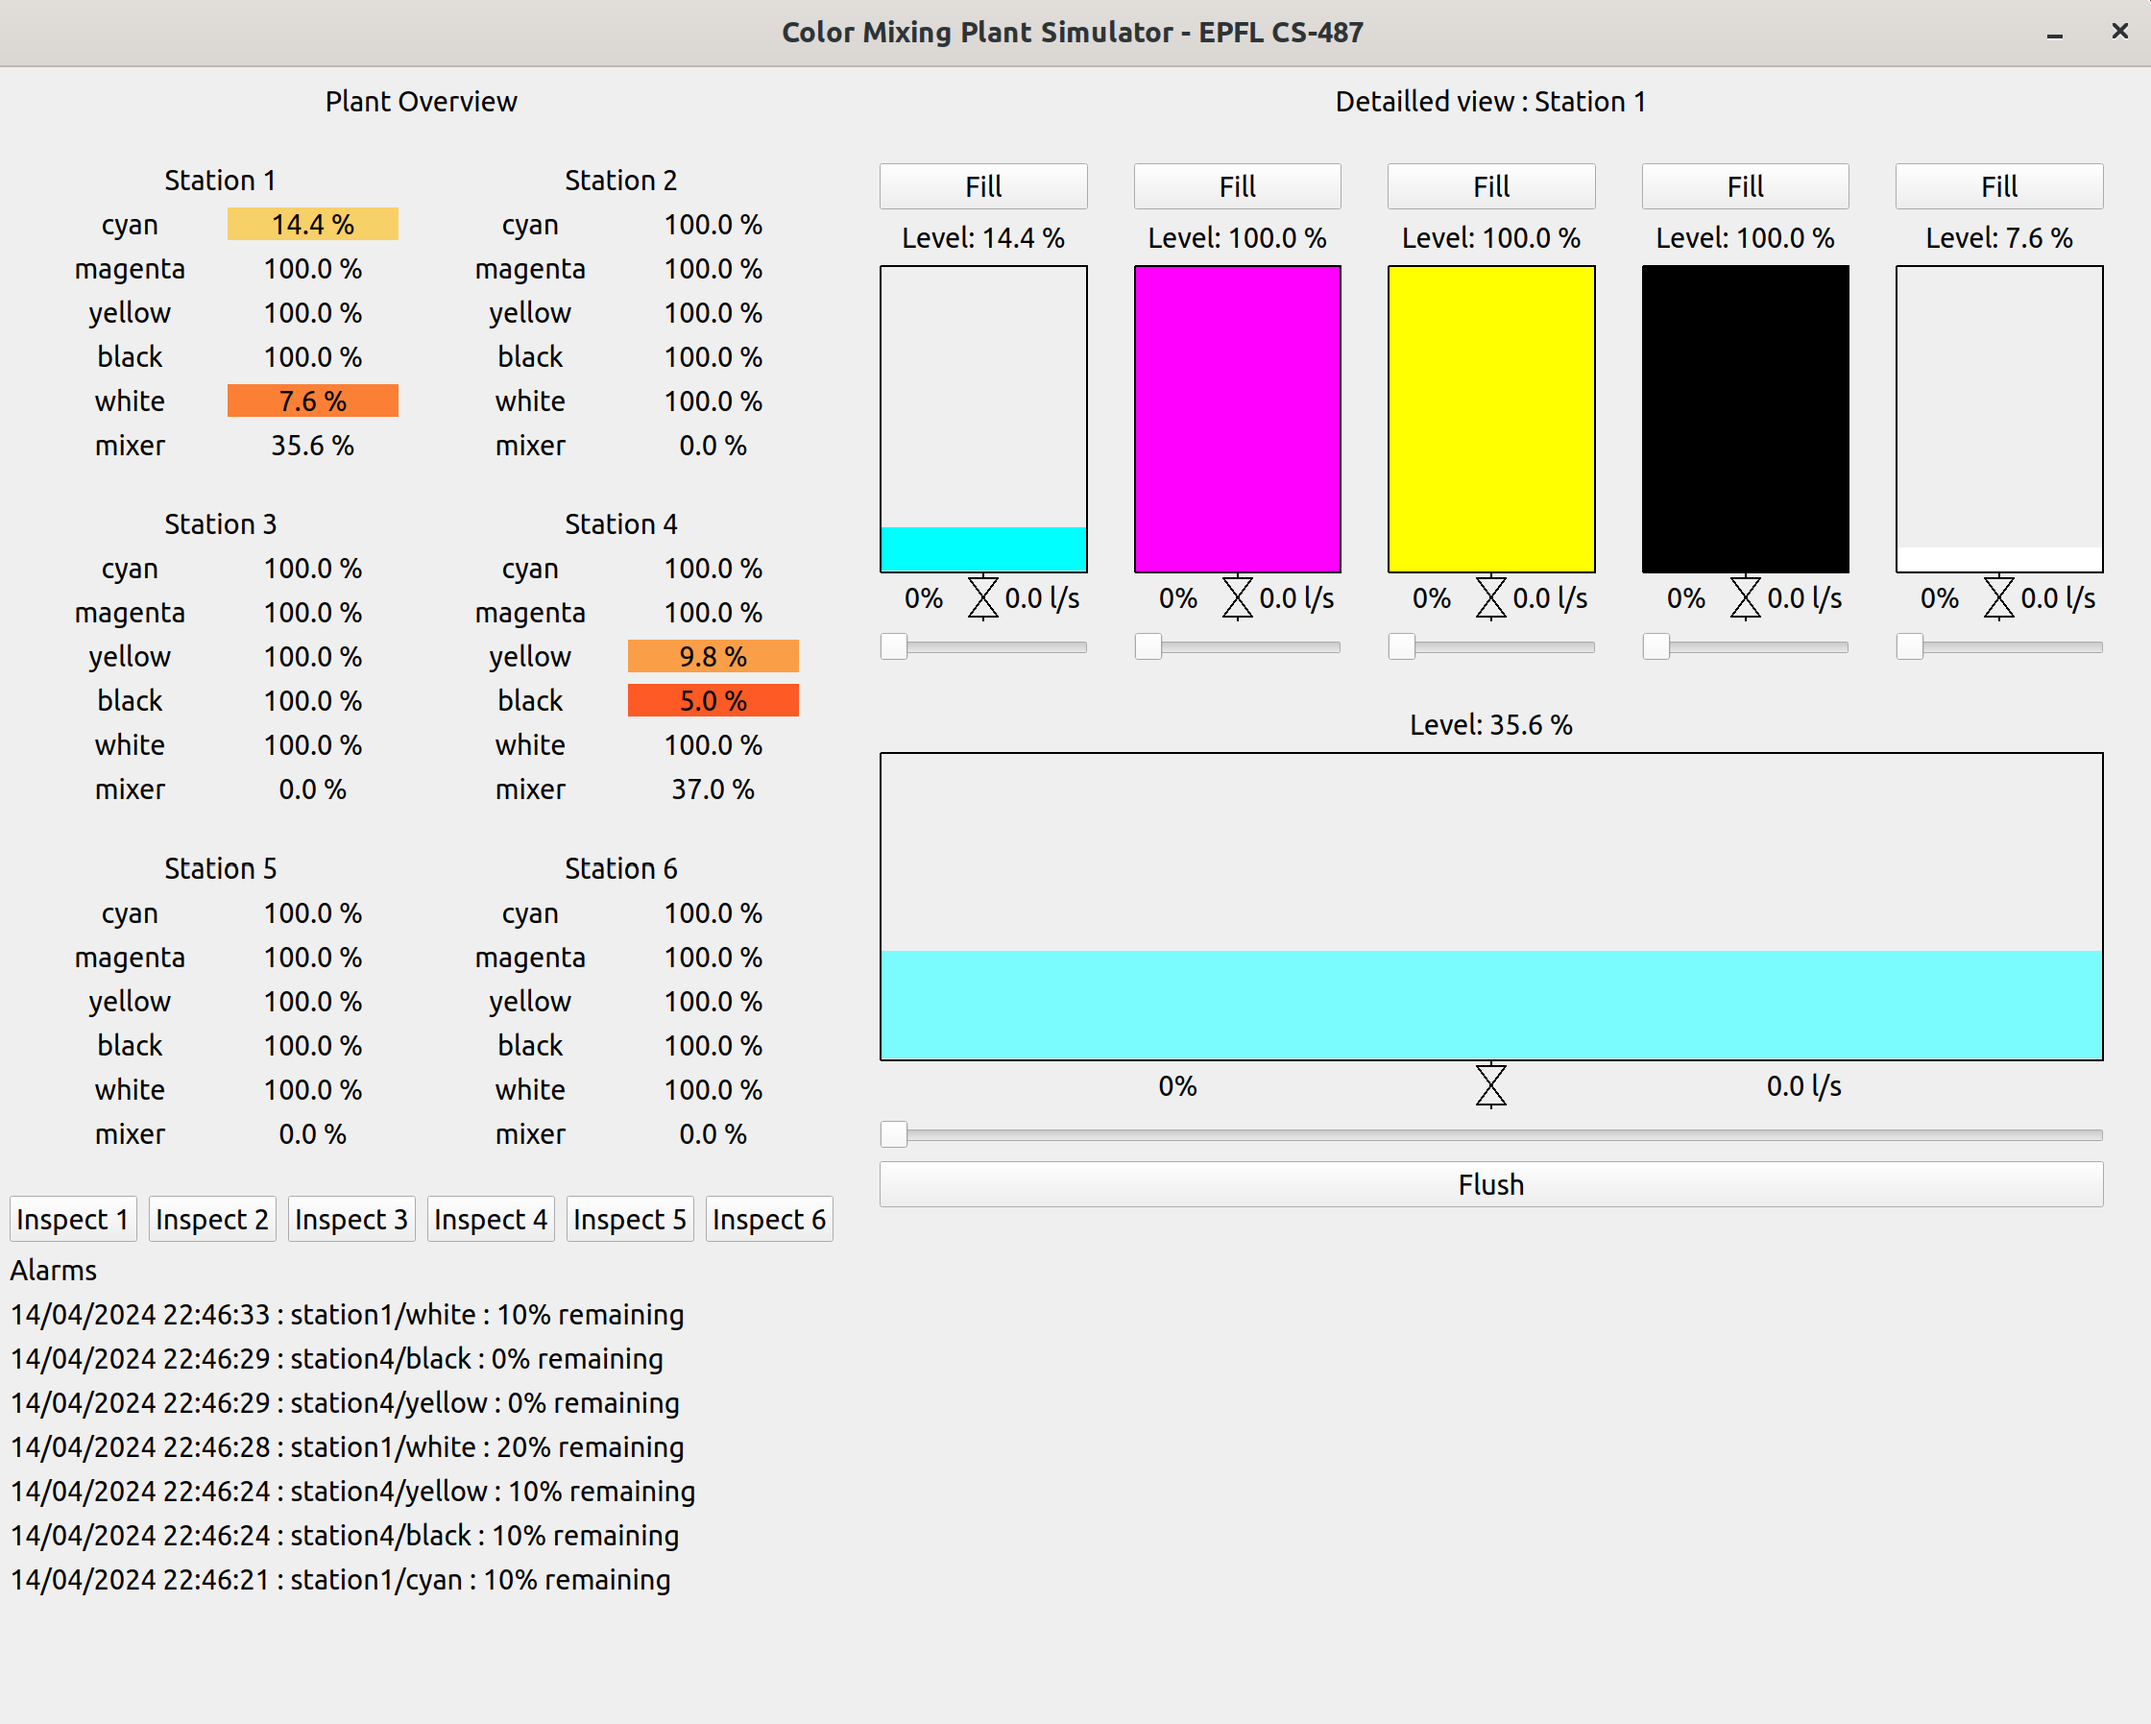
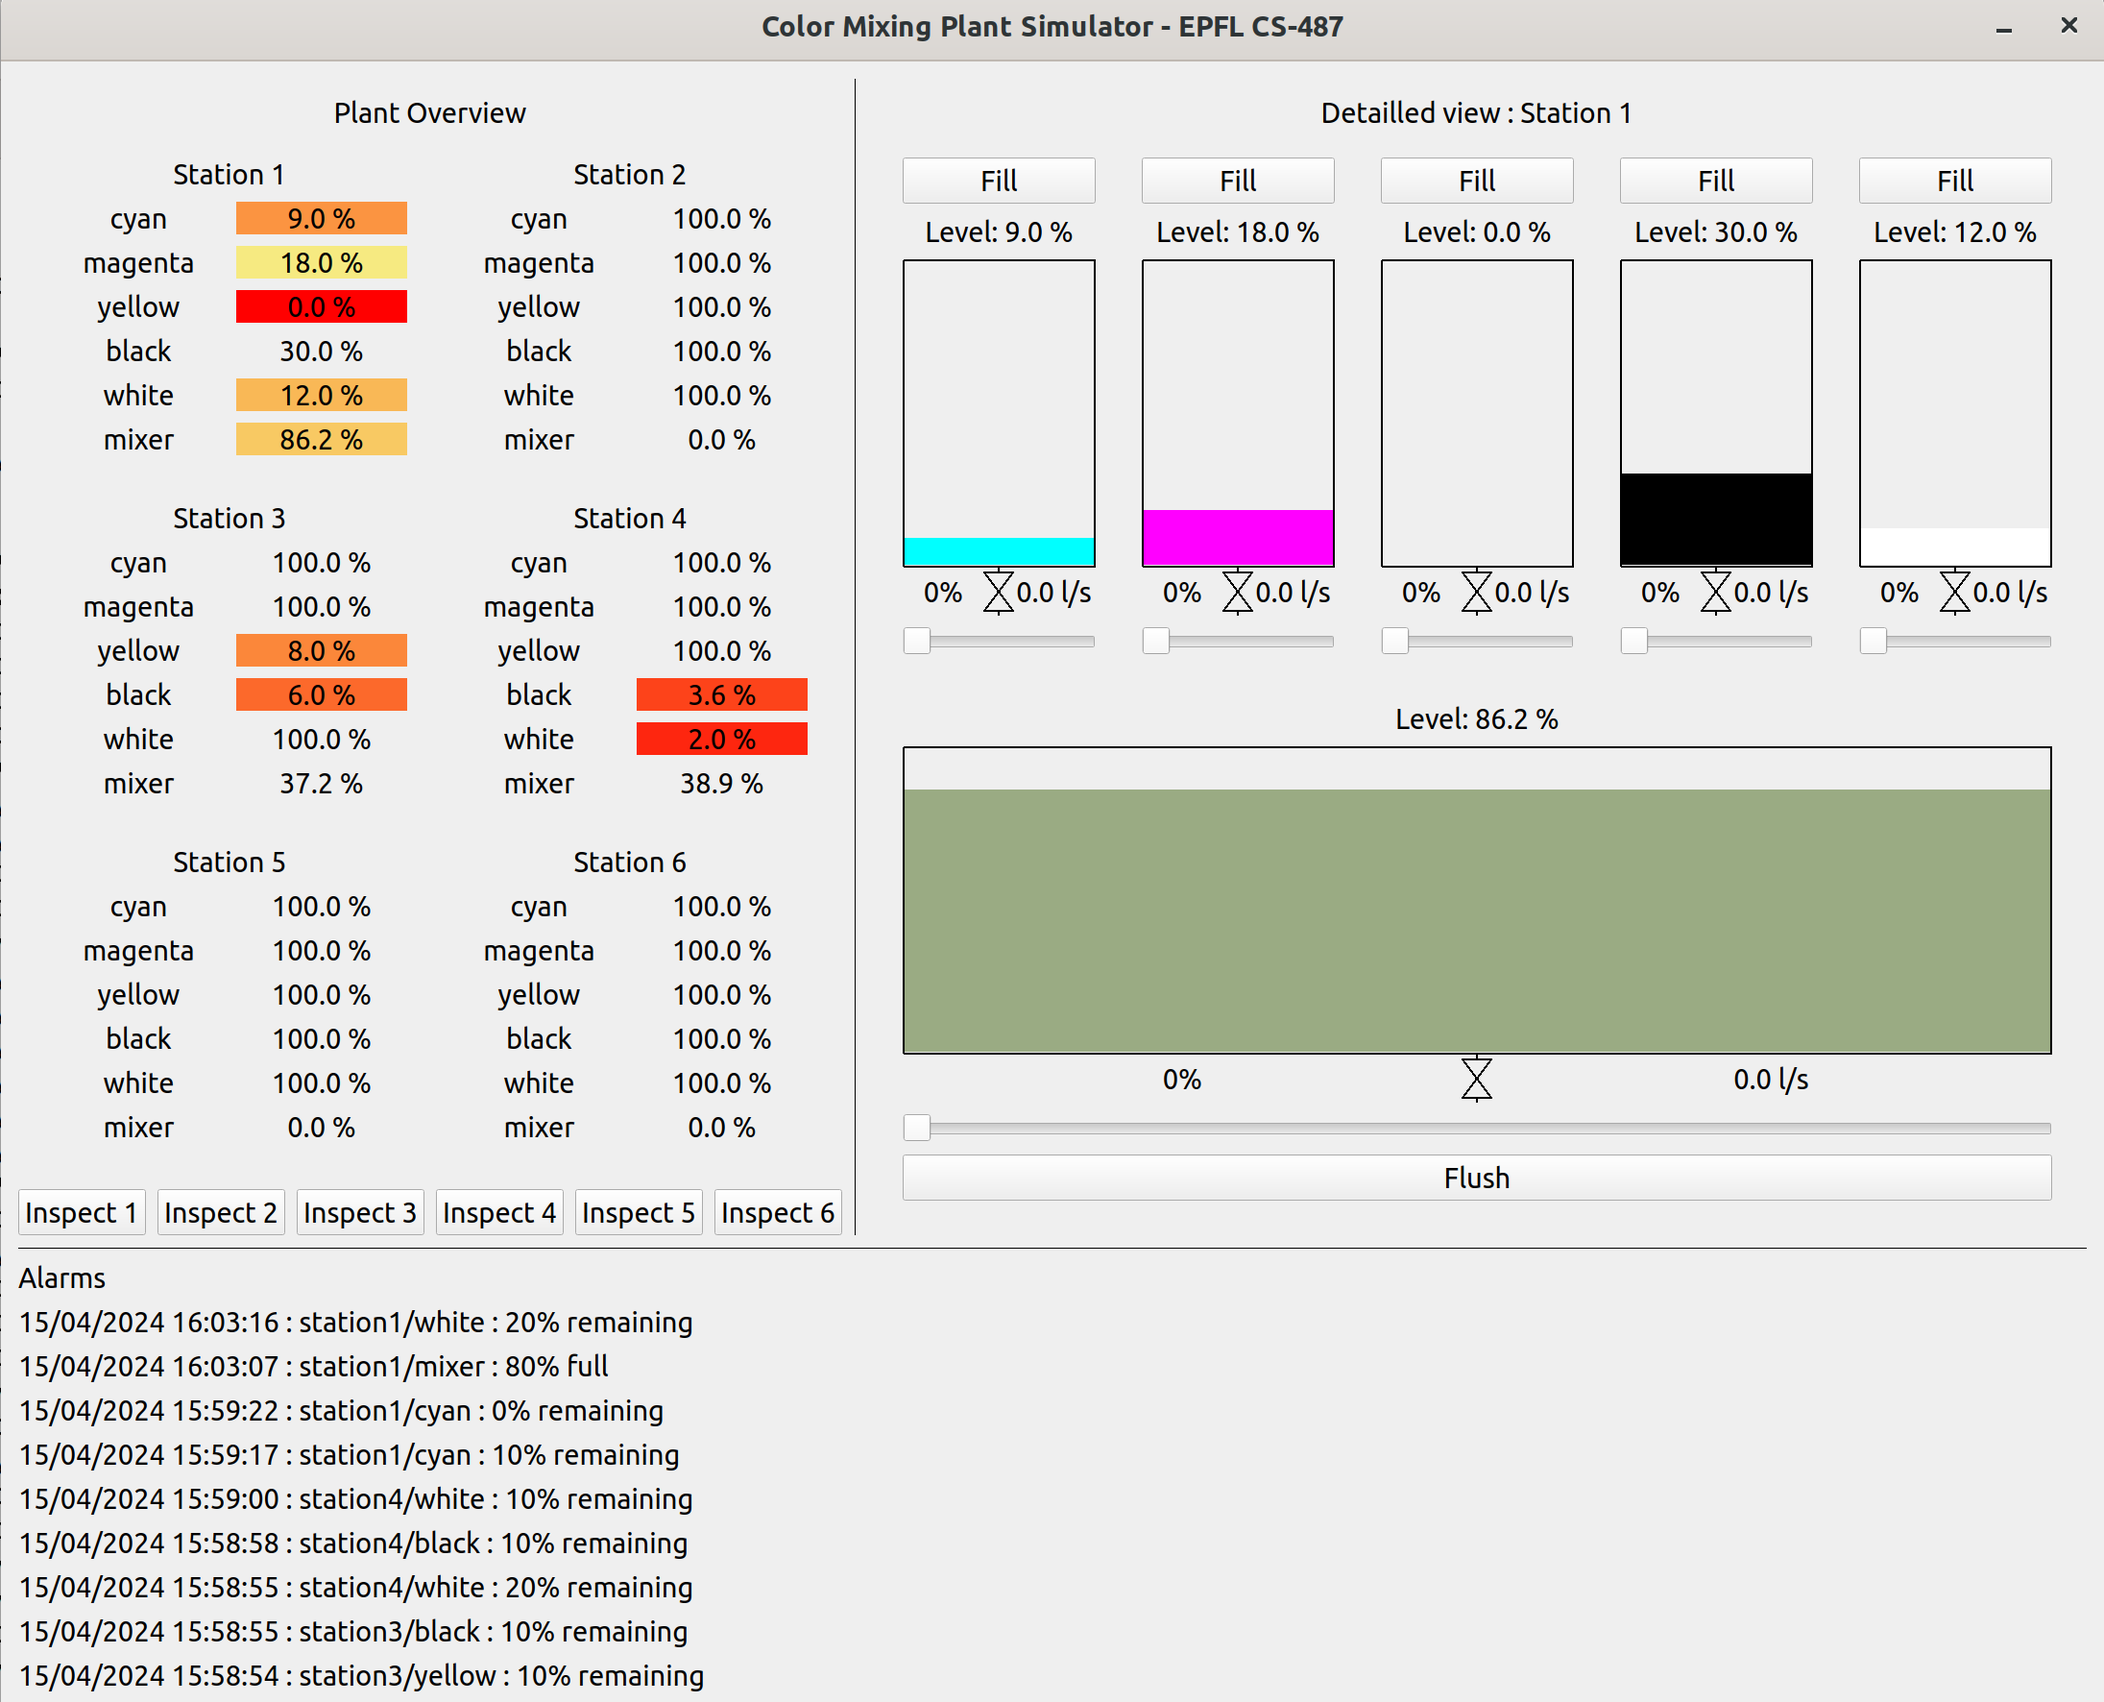
Added separating lines, update screenshot

diff --git a/gui.py b/gui.py
@@ -422,6 +422,11 @@ class Gui(QMainWindow):
         self.upleft_panel.addLayout(button_layout)
         self.up.addLayout(self.upleft_panel)
 
+        # Vertical line
+        vline = QFrame()
+        vline.setFrameShape(QFrame.VLine)
+        self.up.addWidget(vline)
+
         # upright/detailled view panel
         self.upright_panel = QVBoxLayout()
         self.detailled_view = QStackedLayout()
@@ -432,6 +437,11 @@ class Gui(QMainWindow):
 
         self.up.addLayout(self.upright_panel)
         self.layout.addLayout(self.up)
+
+        # Horizontal line
+        hline = QFrame()
+        hline.setFrameShape(QFrame.HLine)
+        self.layout.addWidget(hline)
 
         # down/alarms panel
         self.down.addWidget(QLabel('Alarms'))
